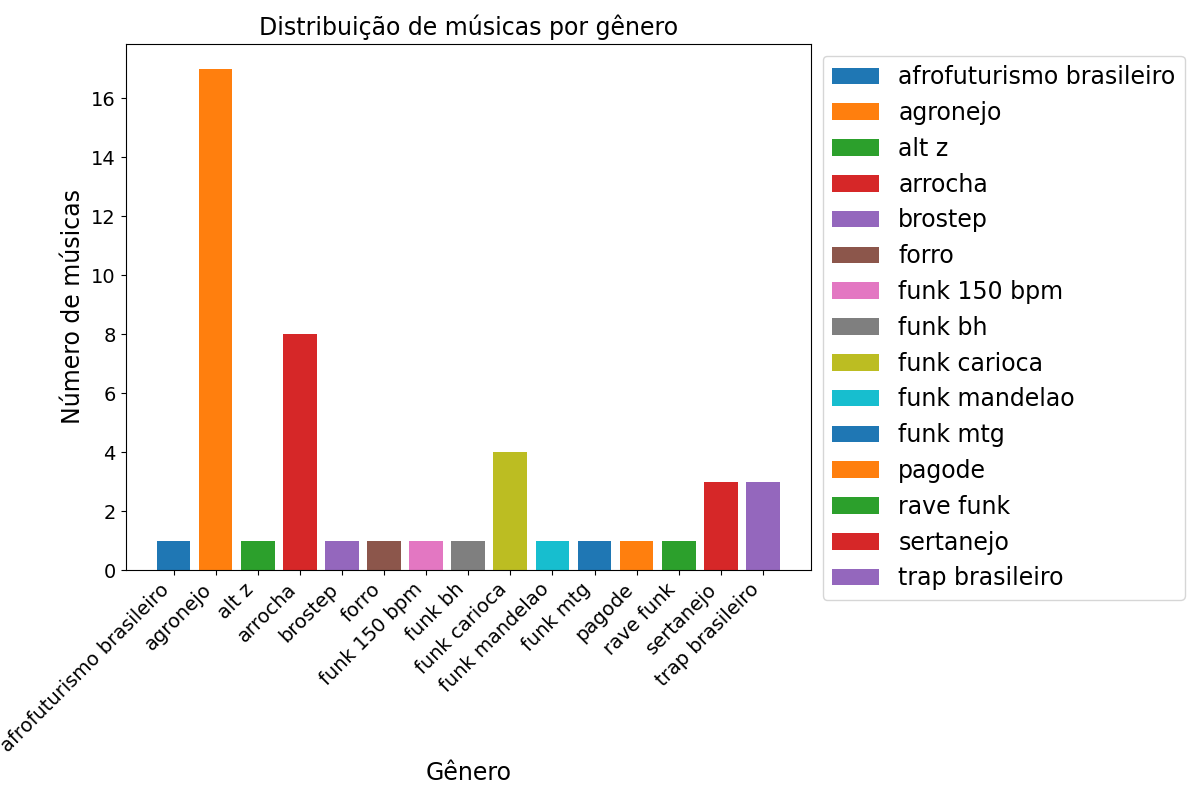
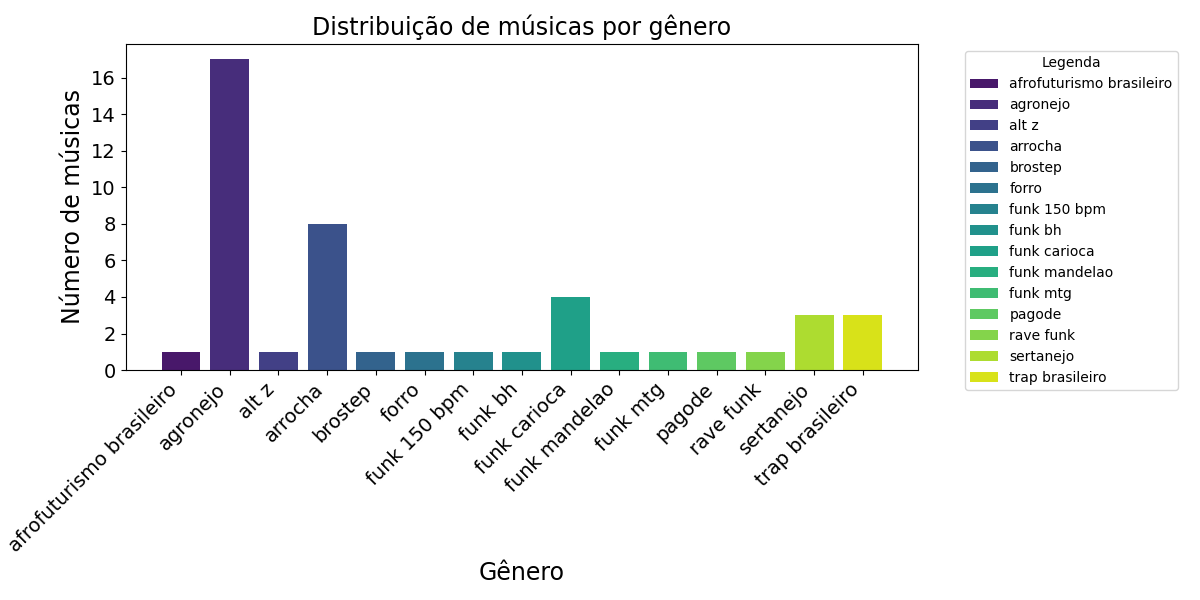
Commit 5

diff --git a/templates/index.html b/templates/index.html
@@ -93,5 +93,6 @@
     {% else %}
     <button onclick="window.location.href='/gerar_graficoTopBrasil'">Top Brasil</button>
     {% endif %}
+
 </body>
 </html>

diff --git a/PopularidadeXArtistaTop50.py b/PopularidadeXArtistaTop50.py
@@ -1,0 +1,41 @@
+import pandas as pd
+import matplotlib.pyplot as plt
+from itertools import cycle
+
+def gerar_grafico_popularidade_artista():
+    # Importar os dados do arquivo csv
+    df = pd.read_csv("spotifycharts-37i9dQZEVXbMXbN3EUUhlg.csv")
+
+    # Calcular a popularidade dos artistas
+    popularidade = df.groupby("name_artist").size().reset_index(name='contagem')
+
+    # Ordenar por contagem em ordem decrescente e pegar os 10 primeiros
+    popularidade = popularidade.sort_values(by='contagem', ascending=False).head(10)
+
+    # Criar o gráfico de barras horizontais
+    cores = cycle(plt.rcParams['axes.prop_cycle'].by_key()['color'])
+    for i, (artista, contagem) in enumerate(zip(popularidade['name_artist'], popularidade['contagem'])):
+        plt.barh(artista, contagem, color=next(cores), label=artista)
+
+    # Adicionar um título e labels aos eixos
+    plt.title("Top 10 Artistas mais Populares", fontsize=17)
+    plt.xlabel("Popularidade", fontsize=17)
+    plt.ylabel("Artista", fontsize=17)
+
+    # Ajustar o tamanho da fonte nos rótulos do eixo x
+    plt.xticks(fontsize=14)
+
+    # Ajustar o tamanho da fonte nos rótulos do eixo y
+    plt.yticks(fontsize=14)
+
+    # Mover a legenda para fora do gráfico
+    plt.legend(fontsize=12, bbox_to_anchor=(1, 1), loc='upper left')
+
+    # Ajustar o layout do gráfico
+    plt.tight_layout()
+
+    # Ajustar a posição da legenda
+    plt.subplots_adjust(right=0.8)
+
+    # Exibir o gráfico
+    plt.show()

diff --git a/GeneroXPopularidadeTop50.py b/GeneroXPopularidadeTop50.py
@@ -1,5 +1,6 @@
 import pandas as pd
 import matplotlib.pyplot as plt
+import seaborn as sns
 from itertools import cycle
 from flask import Flask, render_template, redirect, url_for
 
@@ -17,7 +18,15 @@ def gerar_grafico_popularidade_genero():
     distribuicao = df.groupby("genre").size()
 
     # Criar o gráfico de barras empilhadas
-    plt.figure(figsize=(12, 8))
+    plt.figure(figsize=(12, 6))
+
+    # Usar um ciclo para repetir as cores conforme necessário
+    cores = cycle(sns.color_palette('viridis', len(distribuicao)))
+
+    # Iterar sobre cada gênero e plotar uma barra com uma cor diferente
+    for genero, contagem in distribuicao.items():
+        cor = next(cores)
+        plt.bar(genero, contagem, color=cor, label=genero)
 
     # Adicionar um título e labels aos eixos
     plt.title("Distribuição de músicas por gênero", fontsize=17)
@@ -29,6 +38,9 @@ def gerar_grafico_popularidade_genero():
 
     # Ajustar o tamanho da fonte nos rótulos do eixo y
     plt.yticks(fontsize=14)
+
+    # Adicionar legenda
+    plt.legend(fontsize=10, title='Legenda', bbox_to_anchor=(1.05, 1), loc='upper left')
 
     # Exibir o gráfico
     plt.tight_layout()
